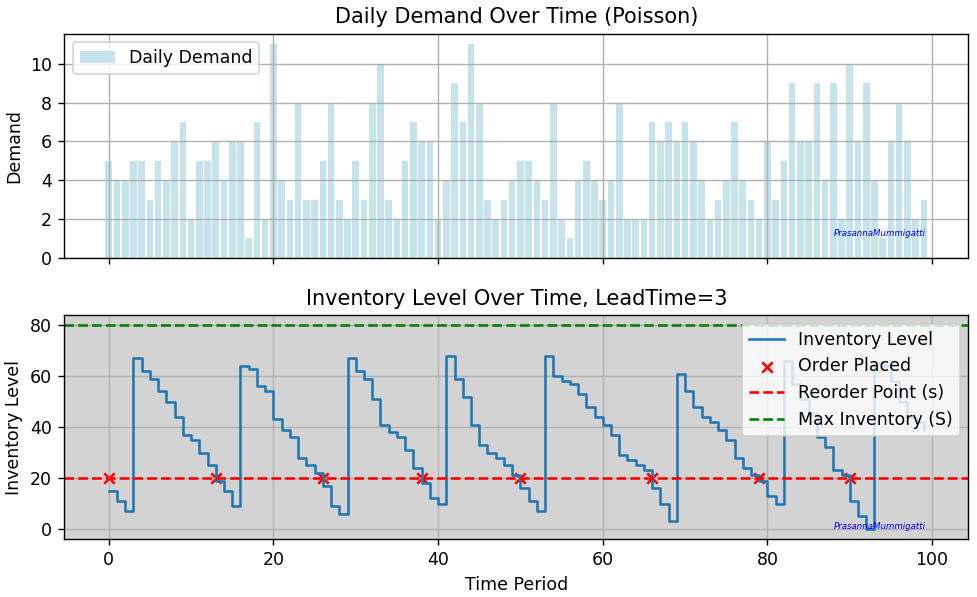
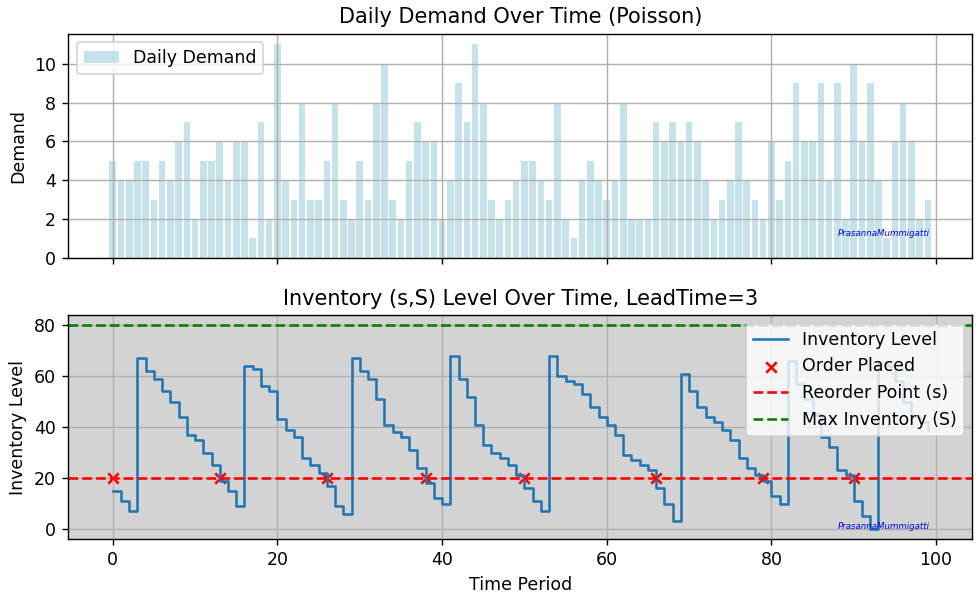
commit final

Changed region(s): [[0.0, 0.4832, 1.0, 0.9664], [0.0, 0.0, 1.0, 0.453], [0.4606, 0.9664, 0.5834, 0.9966]]

diff --git a/Inventory_sS.py b/Inventory_sS.py
@@ -52,7 +52,7 @@ axes[1].set_ylim(-10, max(inventory) + 10)
 axes[1].axhline(y=s, color='r', linestyle='--', label='s (Reorder Point)')
 axes[1].axhline(y=S, color='b', linestyle='--', label='S (Order-up-to Level)')
 axes[1].set_ylabel('Inventory')
-axes[1].set_title('Inventory Level Over Time, LeadTime=0')
+axes[1].set_title('Inventory (s,S) Level Over Time, LeadTime=0')
 axes[1].legend()
 axes[1].grid(axis='y')
 
@@ -76,4 +76,12 @@ def update(frame):
 # Create animation
 ani = animation.FuncAnimation(fig, update, frames=num_periods, interval=100, blit=False, repeat=False)
 
+manager = plt.get_current_fig_manager()
+try:
+    manager.window.wm_geometry("+100+100")  # For TkAgg backend
+except AttributeError:
+    manager.window.move(100, 100)  # For Qt5Agg backend
+
 plt.show()
+
+#plt.show()

diff --git a/Inventory_sS_leadtime.py b/Inventory_sS_leadtime.py
@@ -66,7 +66,7 @@ axes[1].axhline(y=s, color='r', linestyle='--', label="Reorder Point (s)")
 axes[1].axhline(y=S, color='g', linestyle='--', label="Max Inventory (S)")
 axes[1].set_xlabel("Time Period")
 axes[1].set_ylabel("Inventory Level")
-axes[1].set_title("Inventory Level Over Time, LeadTime=3")
+axes[1].set_title("Inventory (s,S) Level Over Time, LeadTime=3")
 axes[1].legend()
 axes[1].set_facecolor('lightgrey')
 axes[1].grid(True)
